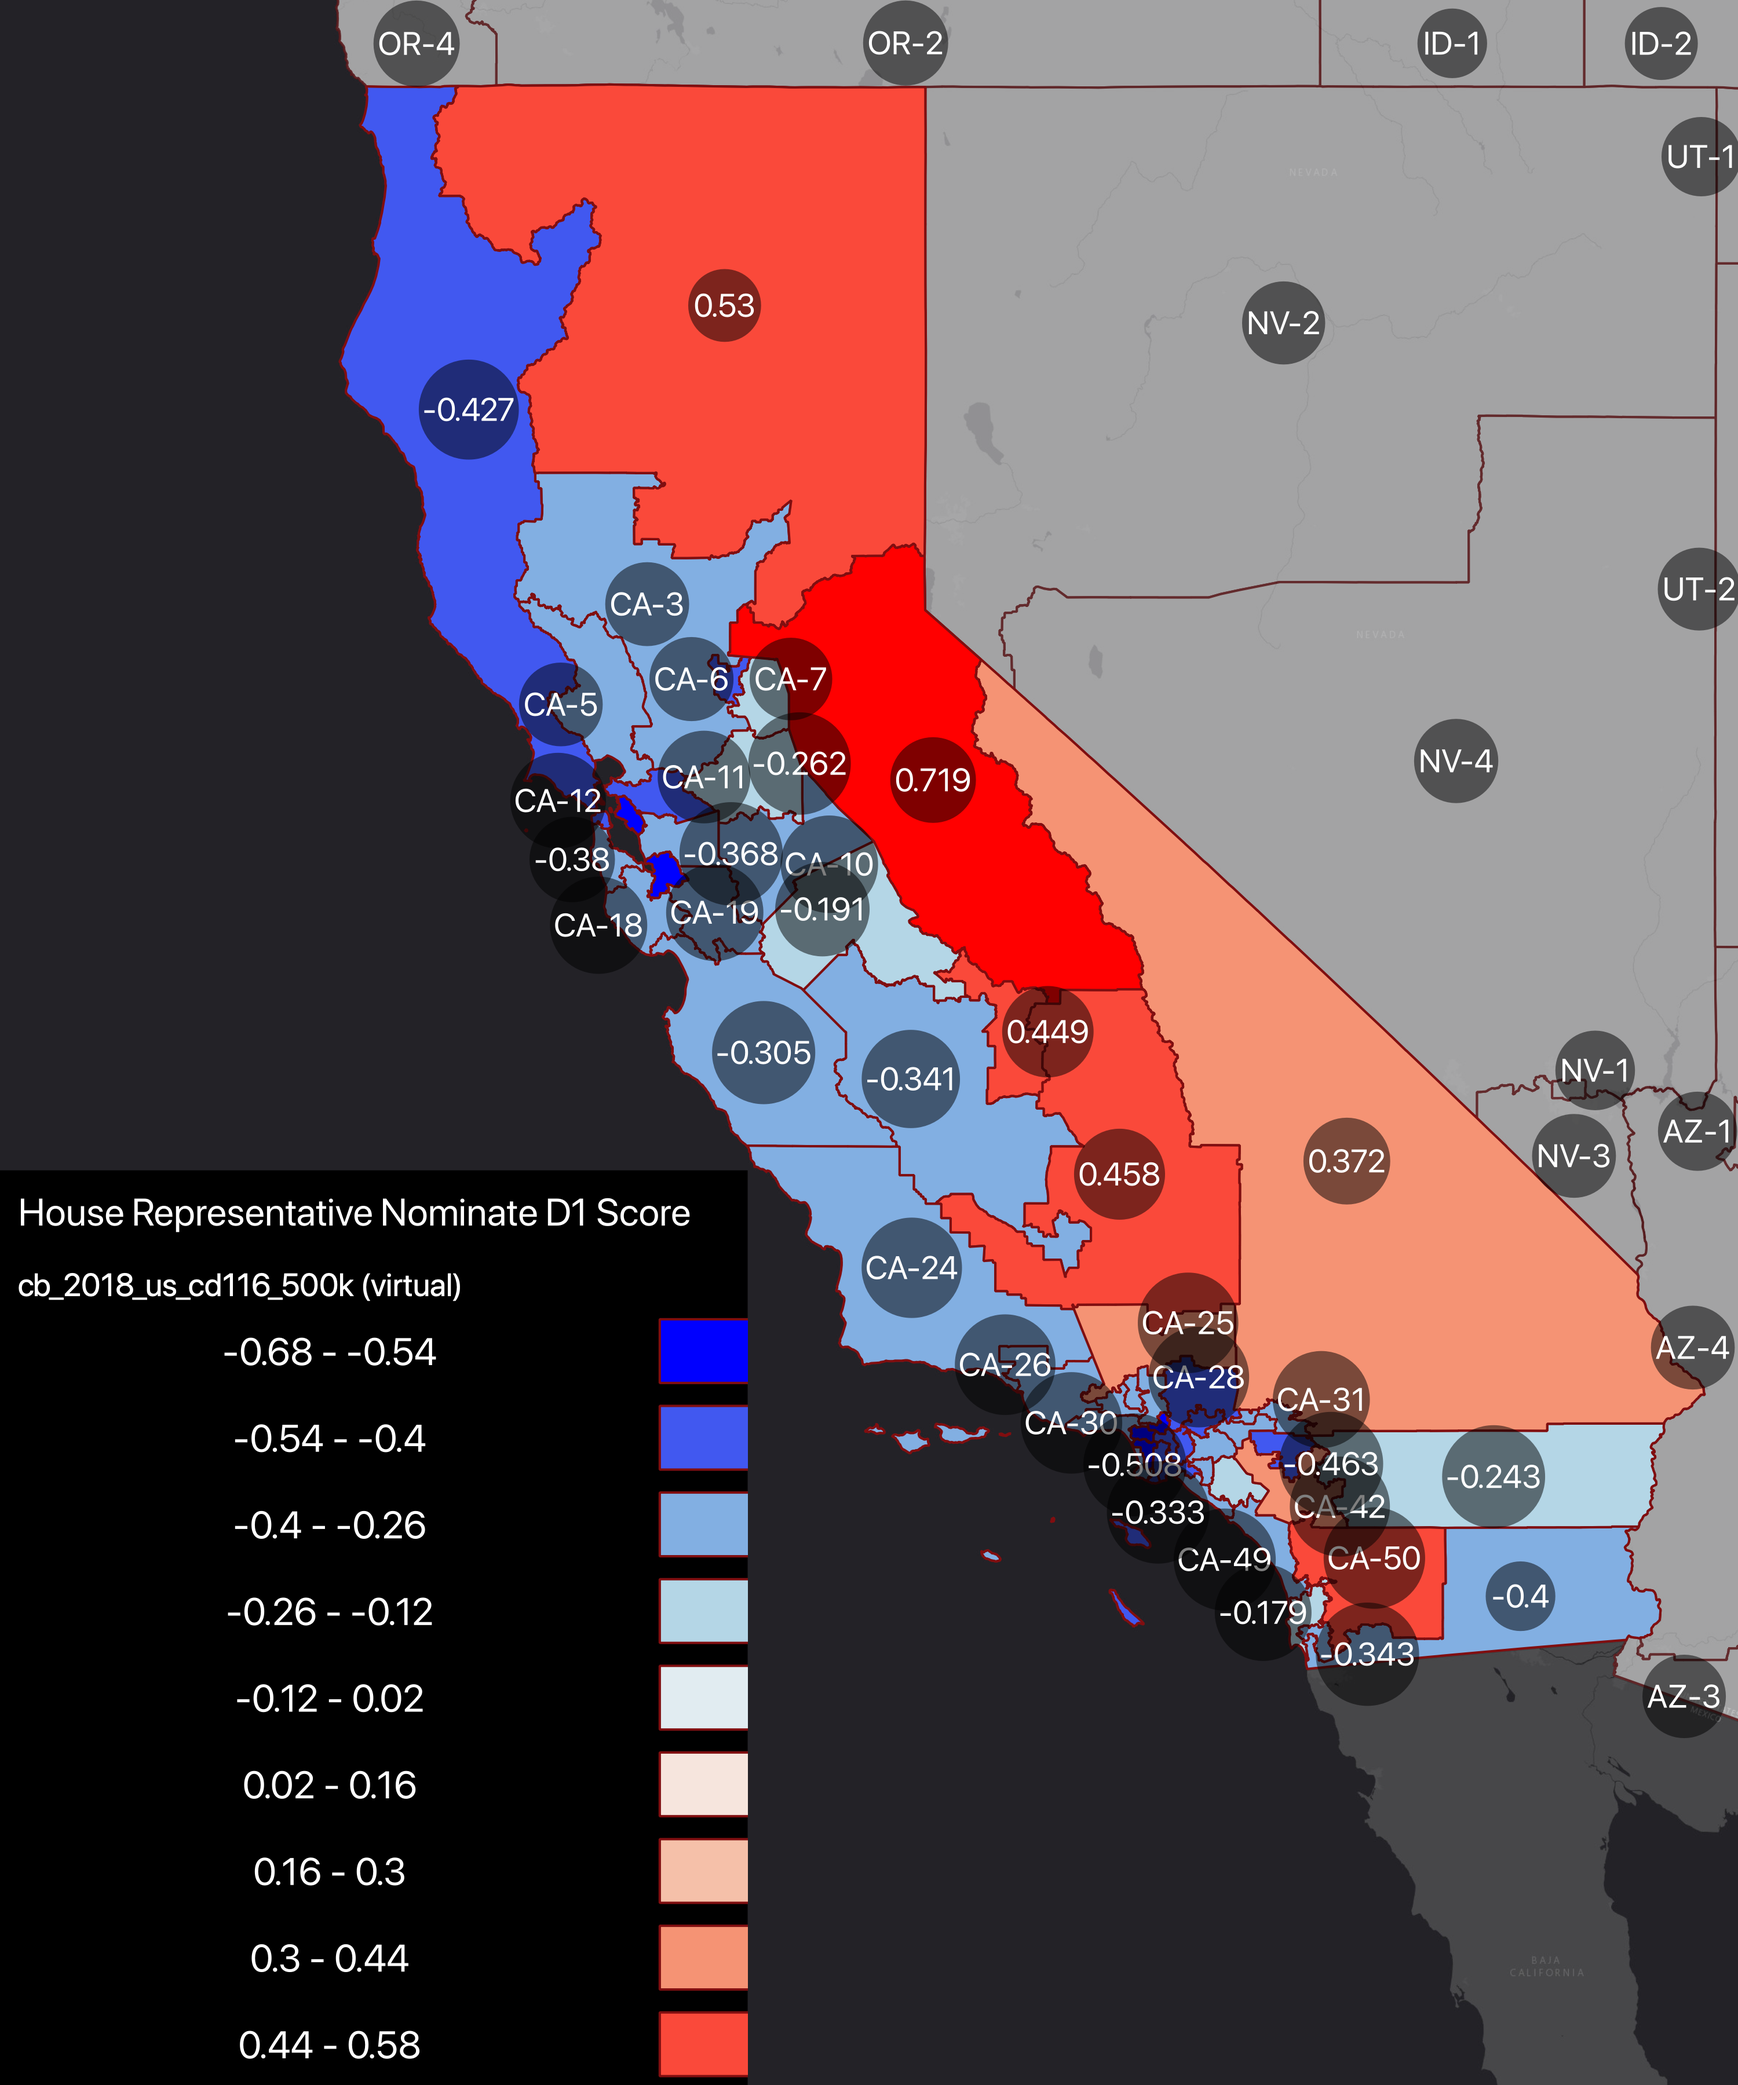
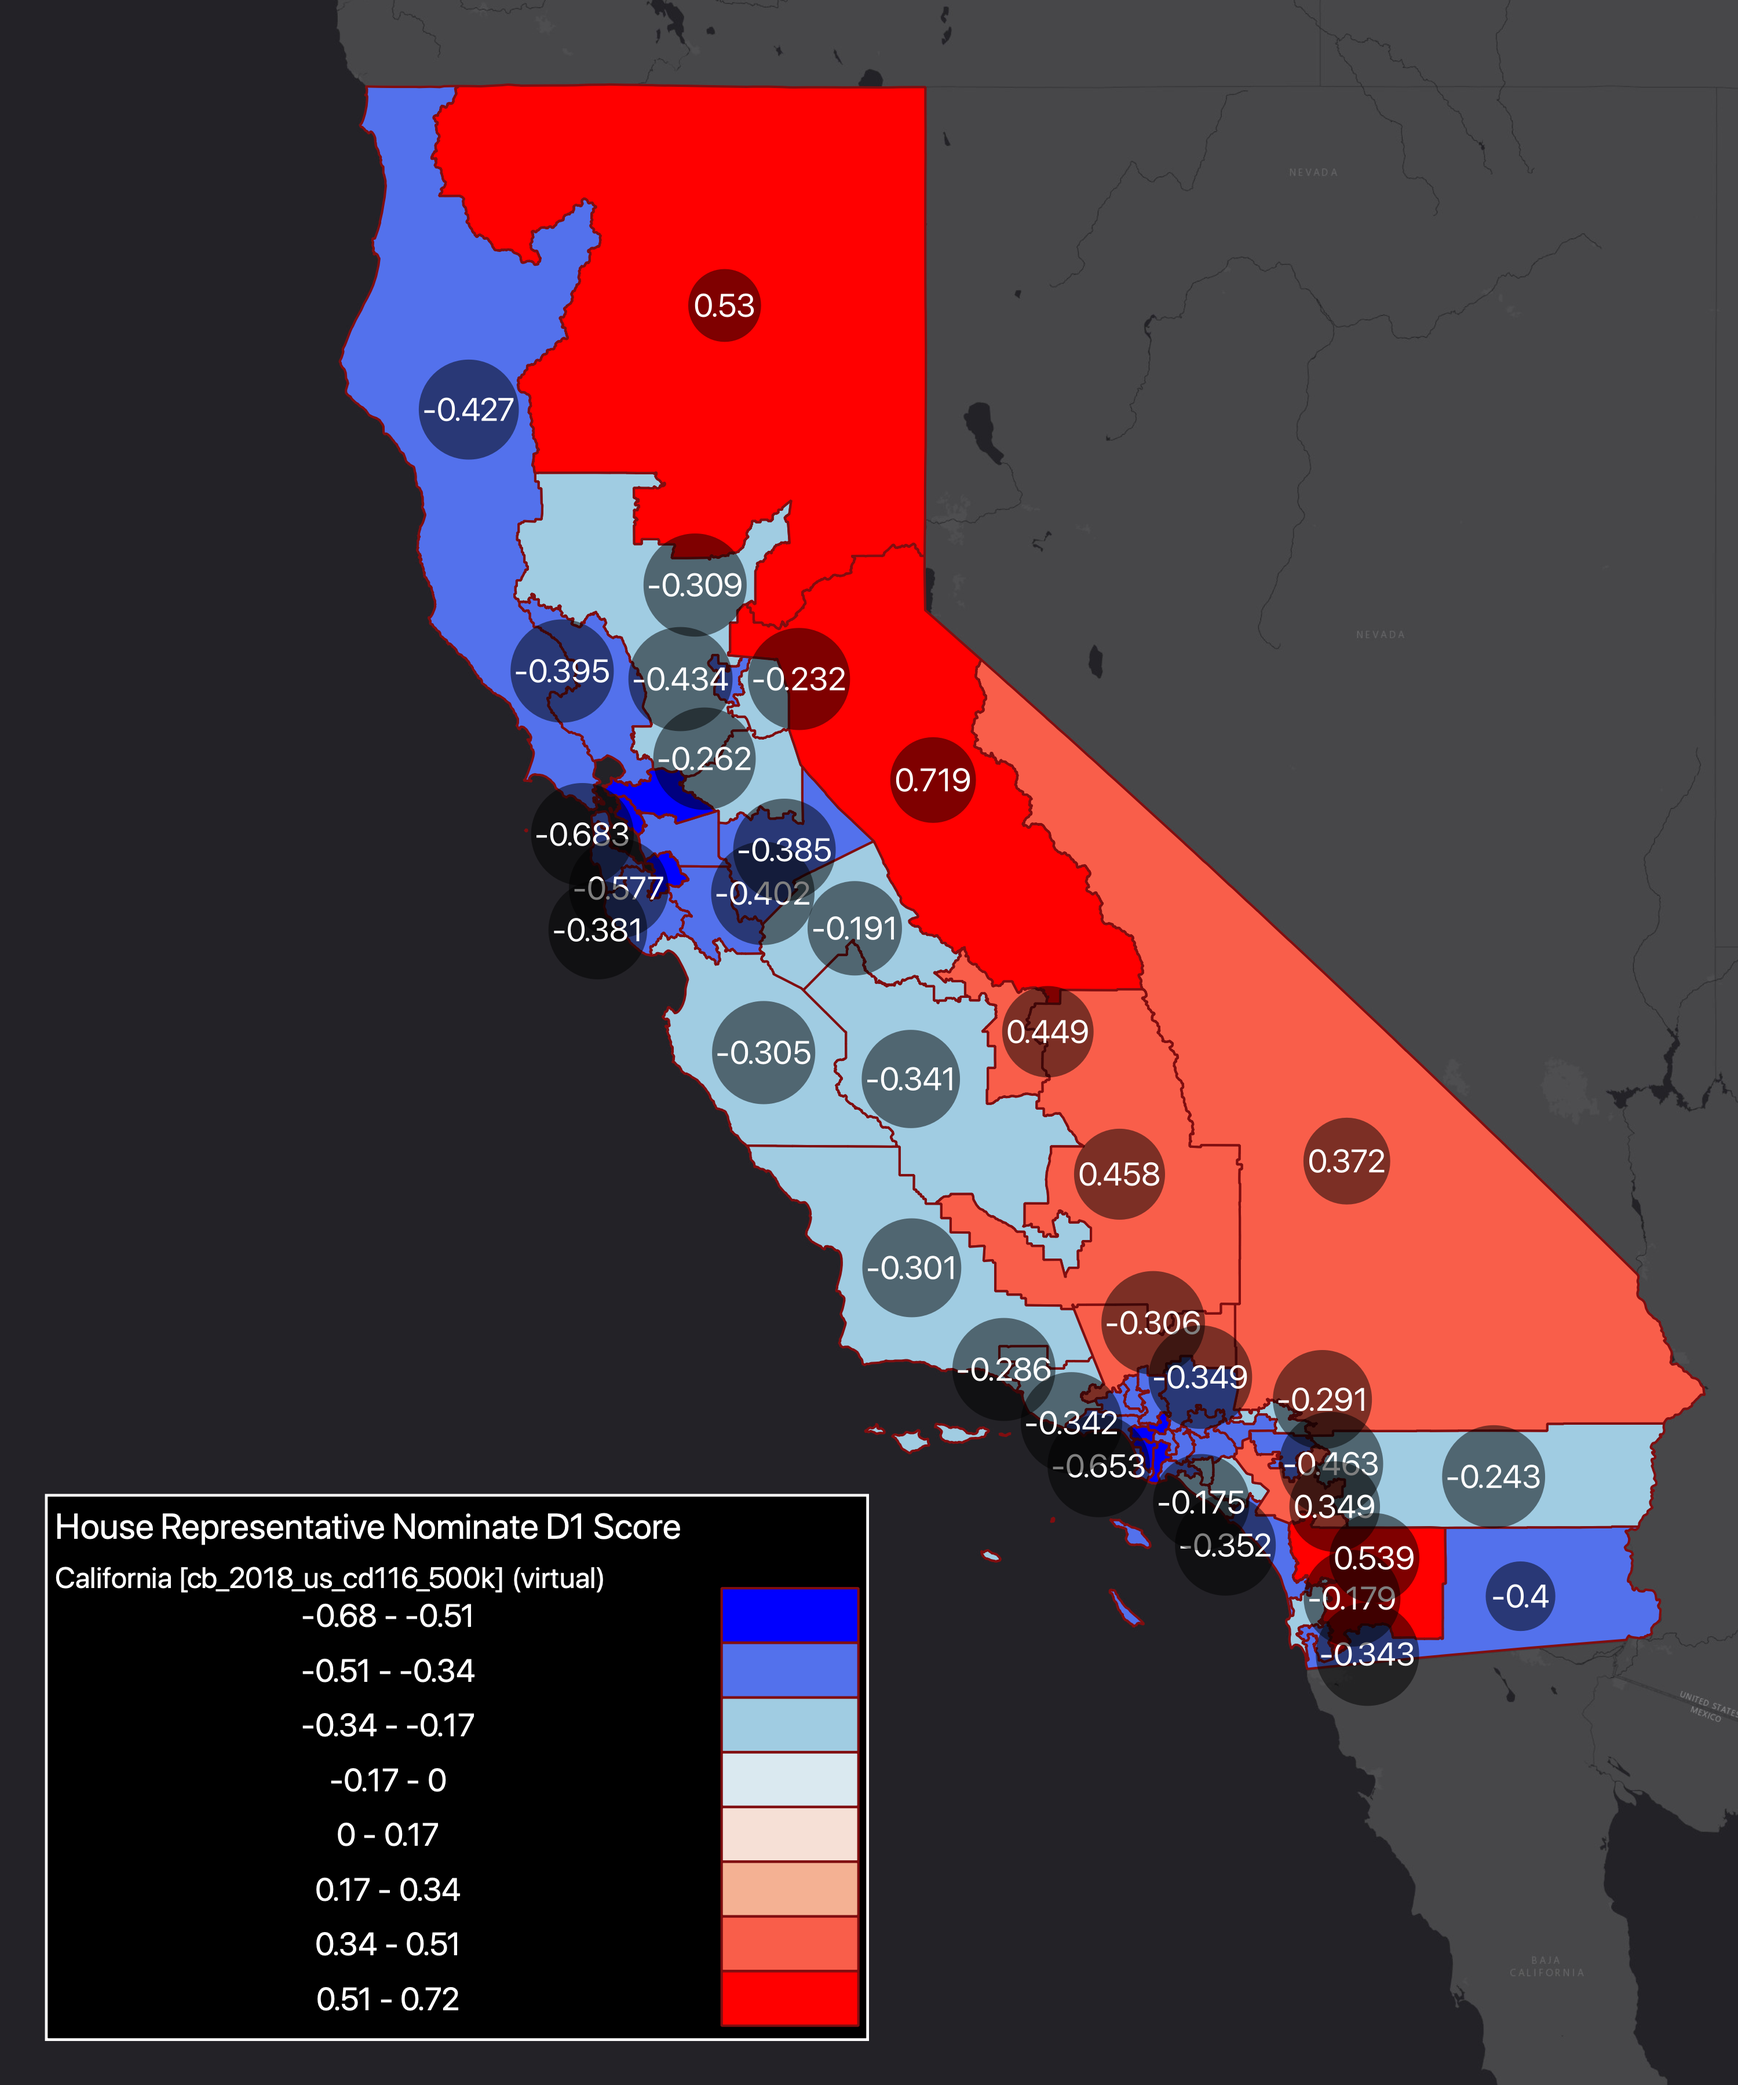
finished adding/joining dimension1 data for remaining districts in GIS project

diff --git a/README.md b/README.md
@@ -42,8 +42,9 @@ Congress, United States (2018)](DWN-D1-MappedDistricts-current.png)
 
 ##### To Do Next
 
-  - Finish Mapping Dimension 1 Nominate Score for all 2018 House
-    districts
+  - ~~Finish Mapping Dimension 1 Nominate Score for all 2018 House
+    districts~~
+  - ~~adjust map color coding~~
   - build R script to subset by political party, add party layer to GIS
     proj
   - build initial webmap
@@ -51,7 +52,6 @@ Congress, United States (2018)](DWN-D1-MappedDistricts-current.png)
   - Add 2016-2017 Congressional district layer to GIS proj
   - update file table
   - build %change over election years plot script
-  - improve map color coding
 
 ##### Data
 
